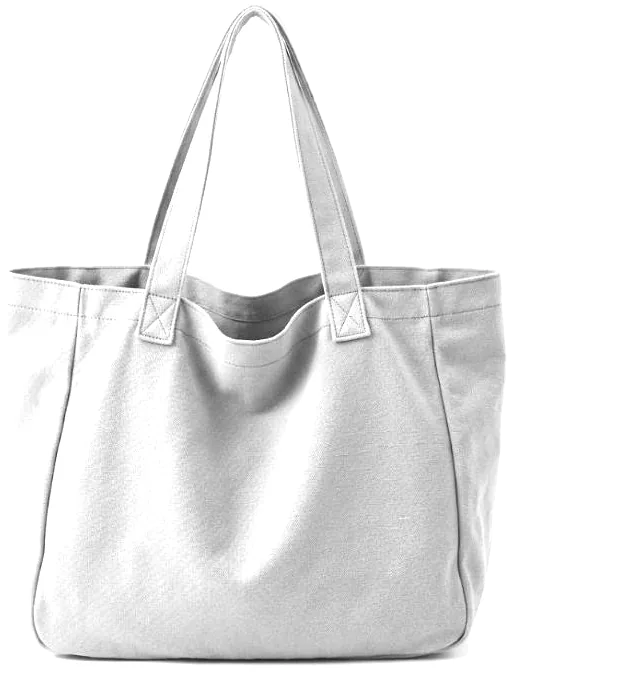
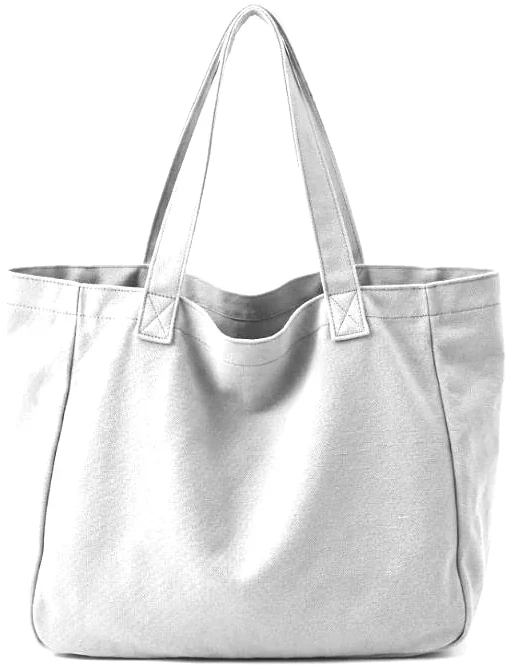
Knit fit, no tee peek, knee boots under midi skirts, cleaner bag and watch cutouts
- Womenswear: the knit ends at the high hip instead of hanging boxy to mid-hip.
- Remove the white tee peeking under the knit, its drawing branch and styling note.
- Midi skirts now take knee-high boots, sized by height so the shaft tucks under
  the scalloped hem, with the legs erased from the knee down. Brown for now; black
  follows once the black pair is photographed.
- Tote and hobo: remove the white floor patch and the background inside the handles.
- Silver watch: recut cleanly from watch-silver.jpg.

diff --git a/index.html b/index.html
@@ -469,6 +469,7 @@ const STYLES = [
   { id: "runner",     slot: "shoes", name: "lightweight runners", fit: "regular", sil: ["balanced", "big-top", "small-top"], occ: ["gym", "athleisure", "weekend"], dept: BOTH, base: 90, colors: SHOE_COLORS, material: "recycled knit", tags: ["sustainable"], note: "keep the outfit light and easy to move in" },
   { id: "loafer",     slot: "shoes", name: "leather loafers", fit: "regular", sil: ["balanced", "big-top", "small-top"], occ: ["work", "night"], dept: BOTH, base: 110, colors: ["black", "camel", "rust", "navy"], material: "full-grain leather", tags: ["durable"], note: "finish the outfit with a low, polished shape" },
   { id: "chelsea",    slot: "shoes", name: "Chelsea boots", fit: "regular", sil: ["balanced", "big-top"], occ: ["work", "night", "weekend"], dept: BOTH, base: 125, colors: ["black", "camel", "rust", "grey"], material: "resoleable leather", tags: ["durable"], note: "give the leg line a clean finish at the ankle" },
+  { id: "tall-boot",  slot: "shoes", name: "knee-high boots", fit: "regular", sil: ["small-top", "balanced", "big-top"], occ: ["work", "night", "casual", "weekend"], dept: W, base: 180, colors: ["brown", "black"], material: "smooth full-grain leather", tags: ["durable", "trend"], note: "cover the calf, so the midi skirt meets the boot with no gap" },
   { id: "strap-heel", slot: "shoes", name: "block-heel sandals", fit: "regular", sil: ["small-top", "balanced"], occ: ["night", "work"], dept: W, base: 95, colors: ["black", "beige", "camel", "red"], material: "leather", tags: ["trend"], note: "add a little height under the hem" },
 
   // Layers and accessories
@@ -515,6 +516,7 @@ const TRENDS = {
   "tote":          { k: true, note: "Large, slouchy bags showed up at Seoul Fashion Week SS27" },
   "barn":          { note: "Barn jackets are replacing shackets in fall 2026 forecasts" },
   "suede":         { note: "Chocolate suede is a key fall 2026 jacket, worn short over a fuller leg" },
+  "tall-boot":     { note: "Knee-high boots under a midi skirt are a fall 2026 staple" },
   "overcoat":      { note: "Roomy, knee-length raglan coats lead fall 2026 outerwear" },
   "peplum":        { note: "Peplum was the headline shape of the SS27 runways" },
   "blazer":        { note: "A generous blazer is a core part of the model off-duty uniform" },
@@ -566,7 +568,7 @@ const CATALOG = STYLES.flatMap(style => [...new Set([...(["shoes", "layer"].incl
 const BRANDS_KOREAN = { value: "Musinsa Standard, 8Seconds, Spao", mid: "Covernat, thisisneverthat, Mardi Mercredi", premium: "Andersson Bell, Ader Error, Wooyoungmi" };
 const BRANDS_GYM = { value: "Old Navy, Decathlon, Uniqlo", mid: "Gymshark, Nike, Under Armour", premium: "Lululemon, Alo Yoga, Rhone" };
 const BRANDS_LEATHER = { value: "Clarks, Florsheim, Steve Madden", mid: "Dr. Martens, Cole Haan, Blundstone", premium: "Grenson, R.M. Williams, Allen Edmonds" };
-const brandsFor = item => ["loafer", "chelsea"].includes(item.id) ? BRANDS_LEATHER : item.korean ? BRANDS_KOREAN : item.occ[0] === "gym" && item.slot !== "shoes" ? BRANDS_GYM : BRANDS[item.slot];
+const brandsFor = item => ["loafer", "chelsea", "tall-boot"].includes(item.id) ? BRANDS_LEATHER : item.korean ? BRANDS_KOREAN : item.occ[0] === "gym" && item.slot !== "shoes" ? BRANDS_GYM : BRANDS[item.slot];
 
 const BY_KEY = new Map(CATALOG.map(item => [item.key, item]));
 
@@ -682,7 +684,7 @@ const ANY_CUT = ["str-pant", "wide-pant", "cargo", "track-pant"];
 
 /* Proportion, per stylists: put volume in one place. Each style has three shapes,
    so the three outfits never share a silhouette:
-   - solo: the knit on its own as the hero piece, a tee hem at the waist;
+   - solo: the knit on its own as the hero piece;
    - short: a waist or hip-length jacket over a fuller leg (about a third over two thirds);
    - long: a knee-length coat over a straighter, narrower leg.
    On womenswear, `skirt` replaces the pants where a skirt suits the look. */
@@ -750,6 +752,8 @@ function recipeFor(ctx) {
   return looks[ctx.look === undefined ? 0 : ctx.look];
 }
 const bottomIds = (recipe, ctx) => ctx.a.dept === "womenswear" && recipe.skirt ? recipe.skirt : recipe.pants;
+/* A midi skirt always gets knee-high boots, so no bare calf shows below the hem. */
+const shoeIds = (recipe, ctx) => bottomIds(recipe, ctx).includes("midi-skirt") ? ["tall-boot"] : recipe.shoes;
 
 function luminance(color) {
   const v = parseInt(COLORS[color].hex.slice(1), 16);
@@ -774,8 +778,10 @@ function coatColorFor(top, bottom, coat) {
 
 /* Shoes: leather goes brown with warm colors and black with cool or black ones;
    sneakers echo the knit, white under light knits and black under dark ones. */
-const LEATHER = ["loafer", "chelsea"];
+const LEATHER = ["loafer", "chelsea", "tall-boot"];
 function shoeColor(id, top, bottom) {
+  // Knee-high boots come in the colors photographed so far.
+  if (id === "tall-boot" && !REAL_SHOES["tall-boot|black"]) return "brown";
   if (LEATHER.includes(id)) return [top, bottom].includes("black") || ["grey", "plum", "lavender", "blush"].includes(top) ? "black" : "brown";
   return isLight(top) ? "white" : "black";
 }
@@ -795,10 +801,10 @@ function fitsFormula(item, ctx) {
     // With no outer layer, the pants alone carry the contrast against the knit.
     if (!all && recipe.shape === "solo" && (isLight(item.color) === isLight(ctx.bread) || lumGap(item.color, ctx.bread) < .1)) return false;
     // The pants never repeat the shoe color, so the leg stands apart from the foot.
-    return all || ctx.anyCut || recipe.shoes.some(id => shoeColor(id, ctx.bread, item.color) !== item.color);
+    return all || ctx.anyCut || shoeIds(recipe, ctx).some(id => shoeColor(id, ctx.bread, item.color) !== item.color);
   }
   if (item.slot === "shoes") {
-    const ids = all ? looks.flatMap(l => l.shoes) : recipe.shoes;
+    const ids = all ? looks.flatMap(l => shoeIds(l, ctx)) : shoeIds(recipe, ctx);
     if (!ids.includes(item.id)) return false;
     if (all) return ["white", "brown", "black"].includes(item.color);
     return item.color === shoeColor(item.id, ctx.bread, bottomPick && bottomPick.color) && !(bottomPick && bottomPick.color === item.color);
@@ -1279,7 +1285,8 @@ const REAL_SHOES = {
   "low-snk|white": "low-snk-white", "low-snk|black": "low-snk-black", "loafer|brown": "loafer-brown", "loafer|black": "loafer-black",
   "chunky-snk|white": "chunky-snk-white", "chunky-snk|black": "chunky-snk-black",
   "chelsea|brown": "chelsea-brown", "chelsea|black": "chelsea-black",
-  "runner|white": "runner-white", "runner|black": "runner-black"
+  "runner|white": "runner-white", "runner|black": "runner-black",
+  "tall-boot|brown": "tall-boot-brown"
 };
 /* Accessories photographed in their real color, drawn as-is. */
 const REAL_ACCESSORIES = { "chain|gold": "chain-gold", "chain|silver": "chain-silver" };
@@ -1517,7 +1524,7 @@ async function paintDummy(canvas, outfit) {
   const drawable = item => item.slot !== "accessory" || (WEAR[item.id] && !["belt", "watch"].includes(item.id)) || (item.id === "chain" && realAcc(item));
   const order = [shoes, bottom, top, layer, extra].filter(Boolean).filter(drawable);
   const real = item => (item.slot === "shoes" && REAL_SHOES[`${item.id}|${item.color}`]) || realAcc(item);
-  const [dummy, teeImg, ...garments] = await Promise.all([loadImage(form.src), loadImage("tee"), ...order.map(i => realAcc(i) ? loadShoe("../accessories/" + realAcc(i)) : real(i) ? loadShoe(real(i)) : loadImage(WEAR[i.id][0]))]);
+  const [dummy, ...garments] = await Promise.all([loadImage(form.src), ...order.map(i => realAcc(i) ? loadShoe("../accessories/" + realAcc(i)) : real(i) ? loadShoe(real(i)) : loadImage(WEAR[i.id][0]))]);
   const g = canvas.getContext("2d");
   g.clearRect(0, 0, CANVAS_W, CANVAS_H);
   // A slightly deeper tone and a soft shadow make the form read as solid on the light panel.
@@ -1531,8 +1538,9 @@ async function paintDummy(canvas, outfit) {
     g.save();
     g.globalCompositeOperation = "destination-out";
     // From the knee down: full-length pants and shoes cover this, so no bare leg shows around the shoe.
-    // Under a midi skirt the leg shows down to the shoe, so only the foot goes.
-    const midi = bottom && (WEAR[bottom.id] || [])[3] === "midi";
+    // Under a midi skirt the leg shows down to the shoe, so only the foot goes, unless
+    // knee-high boots cover the calf.
+    const midi = bottom && (WEAR[bottom.id] || [])[3] === "midi" && shoes.id !== "tall-boot";
     g.fillRect(0, midi ? m.ankleY - (m.ankleY - m.crotchY) * .04 : m.crotchY + (m.ankleY - m.crotchY) * .5, CANVAS_W, CANVAS_H);
     g.restore();
   }
@@ -1564,7 +1572,10 @@ async function paintDummy(canvas, outfit) {
         "chore": m.crotchY + CANVAS_H * .035, "blazer": m.crotchY + CANVAS_H * .05, "power-blazer": m.crotchY + CANVAS_H * .06,
         "trench": m.crotchY + legSpan * .5, "shell": m.crotchY + CANVAS_H * .03, "fleece-jacket": m.crotchY + CANVAS_H * .01, "moto": m.waistY + CANVAS_H * .07, "crop-puffer": m.waistY + CANVAS_H * .04, "track-top": m.crotchY,
         "barn": m.crotchY + CANVAS_H * .04, "suede": m.waistY + CANVAS_H * .05, "overcoat": m.crotchY + legSpan * .56
-      }[item.id] || m.crotchY - CANVAS_H * .025;
+      }[item.id] || (form === FORMS.womenswear
+        // On the womenswear form the knit ends at the high hip, so it skims the body instead of hanging boxy.
+        ? m.waistY + (m.crotchY - m.waistY) * .55
+        : m.crotchY - CANVAS_H * .025);
       // Length sets the vertical scale. Across, the garment's shoulder line matches the
       // dummy's shoulders (plus room to wear it), within a small stretch so nothing distorts.
       const sy = (hem - y) / img.height;
@@ -1590,10 +1601,15 @@ async function paintDummy(canvas, outfit) {
         const pb = placeBottom(pantsImg, bottom, m, m.footY - pairH + 6 + pairH * .3);
         legs = legRuns(pantsImg).map(r => ({ c: pb.x + r.c * pb.width, w: r.w * pb.width }));
       }
-      const gap = shoeGap(img);
       let shoeTop = CANVAS_H;
       // Feet don't change with the pants: one scale for both shoes, set by the body.
-      const scale = (m.hipW * .88) / img.width;
+      // Knee-high boots are sized by height instead, so the shaft tucks just under the skirt hem.
+      const skirtBox = skirt && pantsImg && placeBottom(pantsImg, bottom, m);
+      // The hem is scalloped, so the shaft top goes above its highest curve.
+      const skirtHem = skirtBox && skirtBox.y + skirtBox.height * .9;
+      const scale = item.id === "tall-boot" && skirtHem
+        ? (m.footY + 6 - skirtHem) / img.height
+        : (m.hipW * .88) / img.width;
       // A real pair is a mirror image: take the fuller shoe of the photo (the one the split
       // didn't cut into) and mirror it for the other foot, so both are complete and match.
       const halves = shoeHalves(img);
@@ -1641,18 +1657,6 @@ async function paintDummy(canvas, outfit) {
     }
     const art = real(item) ? img : tinted(img, COLORS[item.color].hex);
     const coated = layer && JACKET_IDS.includes(layer.id);
-    if (item === top && showsTee(outfit)) {
-      // A tee peeks about 2cm below the knit's hem: the knit and tee become one layer.
-      const layered = document.createElement("canvas");
-      layered.width = CANVAS_W; layered.height = CANVAS_H;
-      const l = layered.getContext("2d");
-      const teeW = box.width * .72, teeTop = box.y + box.height * .1, teeBottom = box.y + box.height + CANVAS_H * .012;
-      l.drawImage(tinted(teeImg, COLORS[isLight(top.color) ? "grey" : "white"].hex), MID - teeW / 2, teeTop, teeW, teeBottom - teeTop);
-      l.drawImage(art, box.x, box.y, box.width, box.height);
-      if (coated) { drawn.top = { art: layered, box: { x: 0, y: box.y, width: CANVAS_W, height: CANVAS_H - box.y }, full: true }; return; }
-      g.drawImage(layered, 0, 0);
-      return;
-    }
     // Under a coat, the top waits until the coat is drawn.
     if (item === top && coated) { drawn.top = { art, box }; return; }
     g.drawImage(art, box.x, box.y, box.width, box.height);
@@ -1662,7 +1666,7 @@ async function paintDummy(canvas, outfit) {
       under.width = CANVAS_W; under.height = CANVAS_H;
       const u = under.getContext("2d");
       const t = drawn.top.box;
-      if (drawn.top.full) u.drawImage(drawn.top.art, 0, 0); else u.drawImage(drawn.top.art, t.x, t.y, t.width, t.height);
+      u.drawImage(drawn.top.art, t.x, t.y, t.width, t.height);
       u.globalCompositeOperation = "destination-in";
       u.drawImage(art, box.x, box.y, box.width, box.height);
       const opening = m.chestW * .3;
@@ -1680,18 +1684,12 @@ async function paintDummy(canvas, outfit) {
         g.beginPath();
         g.rect(0, coatHem - 2, CANVAS_W, t.y + t.height - coatHem + 2);
         g.clip();
-        if (drawn.top.full) g.drawImage(drawn.top.art, 0, 0); else g.drawImage(drawn.top.art, t.x, t.y, t.width, t.height);
+        g.drawImage(drawn.top.art, t.x, t.y, t.width, t.height);
         g.restore();
       }
     }
   });
 }
-
-/* A tee hem under the knit, except for sporty looks where the zip is worn on its own,
-   and over a skirt, where the knit sits clean on the waistband. */
-const showsTee = outfit => outfit.style !== "athleisure" && outfit.items.top && outfit.items.top.id.startsWith("quarter-zip")
-  && !(outfit.items.layer && JACKET_IDS.includes(outfit.items.layer.id))
-  && !(outfit.items.bottom && ["midi", "ankle", "knee"].includes((WEAR[outfit.items.bottom.id] || [])[3]));
 
 /* Practical styling notes for each look, built from the pieces in it. */
 function stylingDetails(outfit) {
@@ -1701,14 +1699,14 @@ function stylingDetails(outfit) {
   notes.push(top.id.includes("short")
     ? `Zip the ${c(top)} collar about halfway so it sits open at the neck.`
     : `Zip the ${c(top)} collar about halfway and push the sleeves up slightly at the wrist.`);
-  if (showsTee(outfit)) notes.push(`Let a ${isLight(top.color) ? "grey" : "white"} tee show about 2cm below the knit's hem for a clean layered line.`);
   const cut = bottom.id;
   if (["wide-pant", "pleat-wide", "extra-wide-jean", "wide-jean", "wide-sweat", "parachute", "cargo"].includes(cut)) notes.push(`Let the ${bottom.name} fall straight and skim the top of the shoe, with no cuff.`);
   else if (cut === "stacked-jean") notes.push("Let the extra length stack in soft folds just above the shoe.");
   else if (["tapered-jog", "track-pant"].includes(cut)) notes.push(`Sit the ${bottom.name} cuff just above the ankle so the shoe stays visible.`);
   else notes.push(`Wear the ${bottom.name} with a slight break, or one small cuff to show the shoe.`);
   const leather = ["loafer", "chelsea"].includes(shoes.id);
-  notes.push(leather
+  if (shoes.id === "tall-boot") notes.push(`Let the skirt hem fall just over the top of the ${c(shoes)} boots, so no leg shows between them.`);
+  else notes.push(leather
     ? `Pair the ${c(shoes)} ${shoes.name} with thin socks in ${c(bottom)} or ${shoes.color === "brown" ? "brown" : "black"}, so the leg line runs into the shoe.`
     : `Wear ${shoes.color === "white" ? "white crew or no-show" : "black crew"} socks with the ${shoes.name}.`);
   if (layer) notes.push(["suede", "moto", "crop-puffer"].includes(layer.id)
